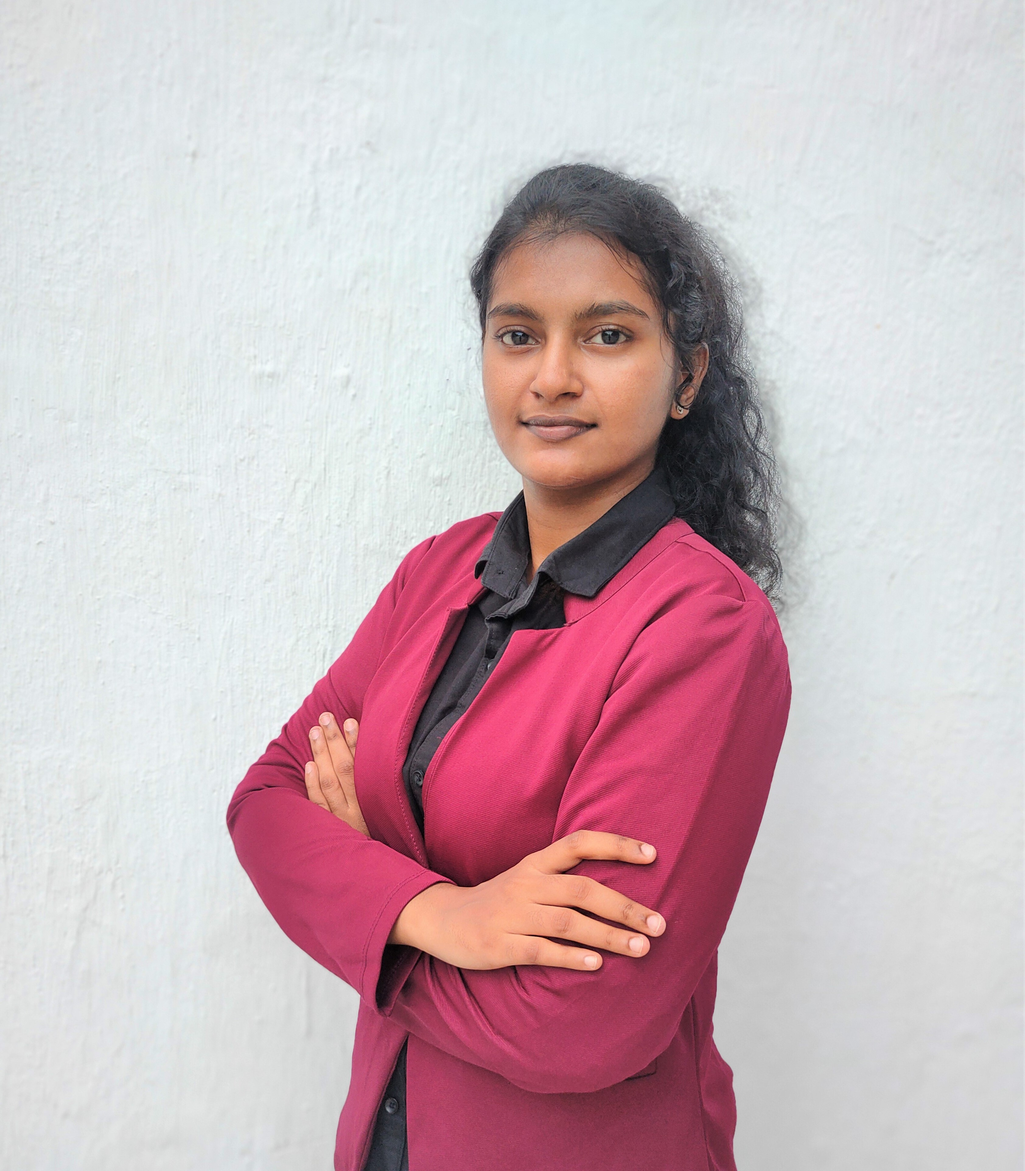
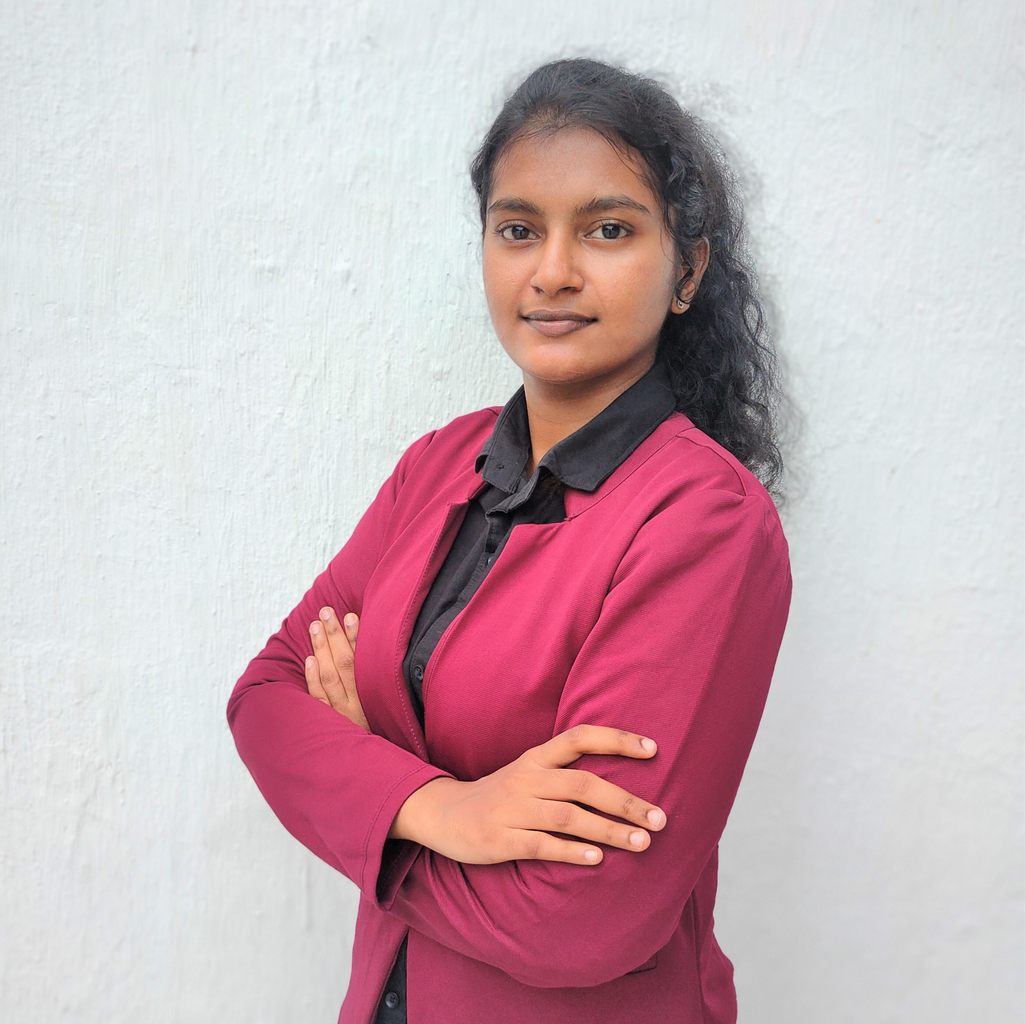
about pic, vlr pic

Changed region(s): [[0.2184, 0.0312, 0.7801, 1.0]]

diff --git a/Home _ Crox E-Sports.html b/Home _ Crox E-Sports.html
@@ -1,5 +1,5 @@
 <!DOCTYPE html>
-<!-- saved from url=(0047)https://html.designingmedia.com/crox/index.html -->
+<!-- saved from url=(0047)# -->
 <html lang="zxx">
 <merlin-component id="merlin-chat" class="merlin chat"><template shadowrootmode="open">
         <style>
@@ -17201,7 +17201,7 @@
         <header>
             <div class="container">
                 <nav class="navbar navbar-expand-lg navbar-light">
-                    <a class="navbar-brand" href="https://html.designingmedia.com/crox/index.html">
+                    <a class="navbar-brand" href="#">
                         <!-- <figure class="mb-0"><img src="./Home _ Crox E-Sports_files/crox_logo.png" alt=""></figure> -->
                     </a>
                     <button class="navbar-toggler collapsed" type="button" data-toggle="collapse"
@@ -17257,19 +17257,19 @@
             <!-- <div class="icon_content d-table-cell align-middle">
                 <ul class="list-unstyled p-0 m-0">
                     <li>
-                        <a href="https://html.designingmedia.com/crox/index.html#"><i class="fa-brands fa-facebook-f"
+                        <a href="##"><i class="fa-brands fa-facebook-f"
                                 aria-hidden="true"></i></a>
                     </li>
                     <li>
-                        <a href="https://html.designingmedia.com/crox/index.html#"><i class="fa-brands fa-twitter"
+                        <a href="##"><i class="fa-brands fa-twitter"
                                 aria-hidden="true"></i></a>
                     </li>
                     <li>
-                        <a href="https://html.designingmedia.com/crox/index.html#"><i class="fa-brands fa-linkedin-in"
+                        <a href="##"><i class="fa-brands fa-linkedin-in"
                                 aria-hidden="true"></i></a>
                     </li>
                     <li class="p-0">
-                        <a href="https://html.designingmedia.com/crox/index.html#"><i class="fa-brands fa-instagram"
+                        <a href="##"><i class="fa-brands fa-instagram"
                                 aria-hidden="true"></i></a>
                     </li>
                 </ul>
@@ -17306,7 +17306,7 @@
                 <div class="col-lg-6 col-md-6 col-sm-12 col-xs-12 pr-md-0 pr-sm-none">
                     <div class="gaming_tournament_image">
                         <figure class="mb-0">
-                            <img class="img-fluid" src="./Home _ Crox E-Sports_files/gaming_tournament_img.jpg" alt="">
+                            <img class="img-fluid" src="./Home _ Crox E-Sports_files/cryptrix insta.png" alt="" style="height:685px;">
                         </figure>
                     </div>
                 </div>
@@ -17646,7 +17646,7 @@ produces that specific output.
                 <div class="col-lg-4 col-md-4 col-sm-6 col-xs-12">
                     <div class="blog_posts_content  padding_bottom">
                         <div class="upper_portion">
-                            <figure class="mb-0"><img src="./Home _ Crox E-Sports_files/Resume pic cropped.jpg" style="height:350px" alt="">
+                            <figure class="mb-0"><img src="./Home _ Crox E-Sports_files/Resume pic cropped.jpg" style="height:350px;width:350px" alt="">
                             </figure>
                         </div>
                         <div class="lower_portion_wrapper">
@@ -17664,7 +17664,7 @@ produces that specific output.
                 <div class="col-lg-4 col-md-4 col-sm-6 col-xs-12">
                     <div class="blog_posts_content  padding_bottom">
                         <div class="upper_portion">
-                            <figure class="mb-0"><img src="./Home _ Crox E-Sports_files/blog_post_1.jpg" alt="">
+                            <figure class="mb-0"><img src="./Home _ Crox E-Sports_files/vlrimg.jpeg" alt="" style="height:350px">
                             </figure>
                         </div>
                         <div class="lower_portion_wrapper">
@@ -17680,9 +17680,9 @@ produces that specific output.
                     </div>
                 </div>
                 <div class="col-lg-4 col-md-4 col-sm-6 col-xs-12">
-                    <div class="blog_posts_content  padding_bottom">
+                    <div class="blog_posts_content  padding_bottom" style="margin-left:25px;">
                         <div class="upper_portion">
-                            <figure class="mb-0"><img src="./Home _ Crox E-Sports_files/javaimg.jpeg" alt="" style="height:350px" alt="">
+                            <figure class="mb-0"><img src="./Home _ Crox E-Sports_files/javaimg.jpeg" alt="" style="height:350px;" alt="">
                             </figure>
                         </div>
                         <div class="lower_portion_wrapper">
@@ -17779,7 +17779,7 @@ produces that specific output.
                 <div class="row">
                     <!-- <div class="col-lg-5 col-md-5 col-sm-12 col-xs-12">
                         <ul class="links mb-0 list-unstyled">
-                            <li><a href="https://html.designingmedia.com/crox/index.html">Home</a></li>
+                            <li><a href="#">Home</a></li>
                             <li><a href="https://html.designingmedia.com/crox/about.html">About</a></li>
                             <li><a href="https://html.designingmedia.com/crox/games.html">Games</a></li>
                             <li><a href="https://html.designingmedia.com/crox/gallery.html">Gallery</a></li>
@@ -17787,7 +17787,7 @@ produces that specific output.
                     </div> -->
                     <div class="">
                         <ul class="mb-2 list-unstyled">
-                            <li><a href="https://html.designingmedia.com/crox/index.html">
+                            <li><a href="#">
                                     <figure class="mb-0"><img src="./Home _ Crox E-Sports_files/CRYPTRIXlogo.png" style="height:200px;margin-left: 450px; " alt="">
                                     </figure>
                                 </a></li>
@@ -17799,13 +17799,13 @@ produces that specific output.
                                     href="https://html.designingmedia.com/crox/match_detail.html">Detail</a></li>
                             <li class="links"><a href="https://html.designingmedia.com/crox/contact.html">Contact</a>
                             </li>
-                            <li class="icons"><a href="https://html.designingmedia.com/crox/index.html#"><i
+                            <li class="icons"><a href="##"><i
                                         class="fa-brands fa-facebook-f" aria-hidden="true"></i></a></li>
                             <li class="icons"><a href="https://html.designingmedia.com/crox/index   .html#"><i
                                         class="fa-brands fa-twitter" aria-hidden="true"></i></a></li>
-                            <li class="icons"><a href="https://html.designingmedia.com/crox/index.html#"><i
+                            <li class="icons"><a href="##"><i
                                         class="fa-brands fa-linkedin-in" aria-hidden="true"></i></a></li>
-                            <li class="icons"><a href="https://html.designingmedia.com/crox/index.html#"><i
+                            <li class="icons"><a href="##"><i
                                         class="fa-brands fa-instagram" aria-hidden="true"></i></a></li>
                         </ul>
                     </div> -->
